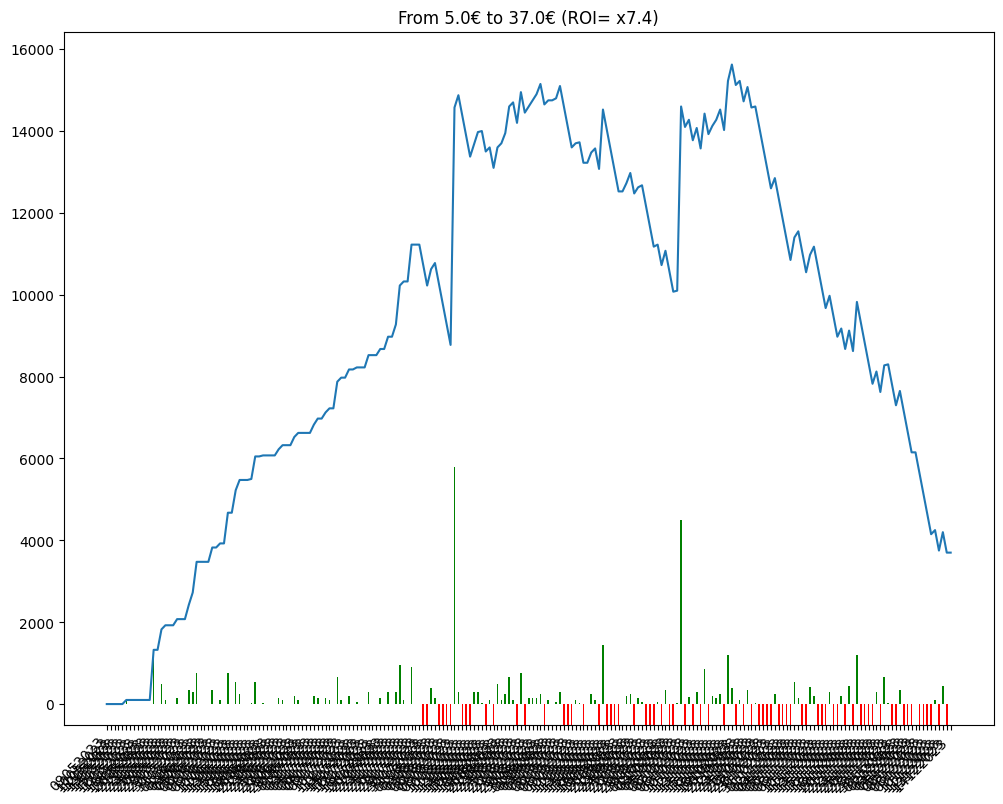
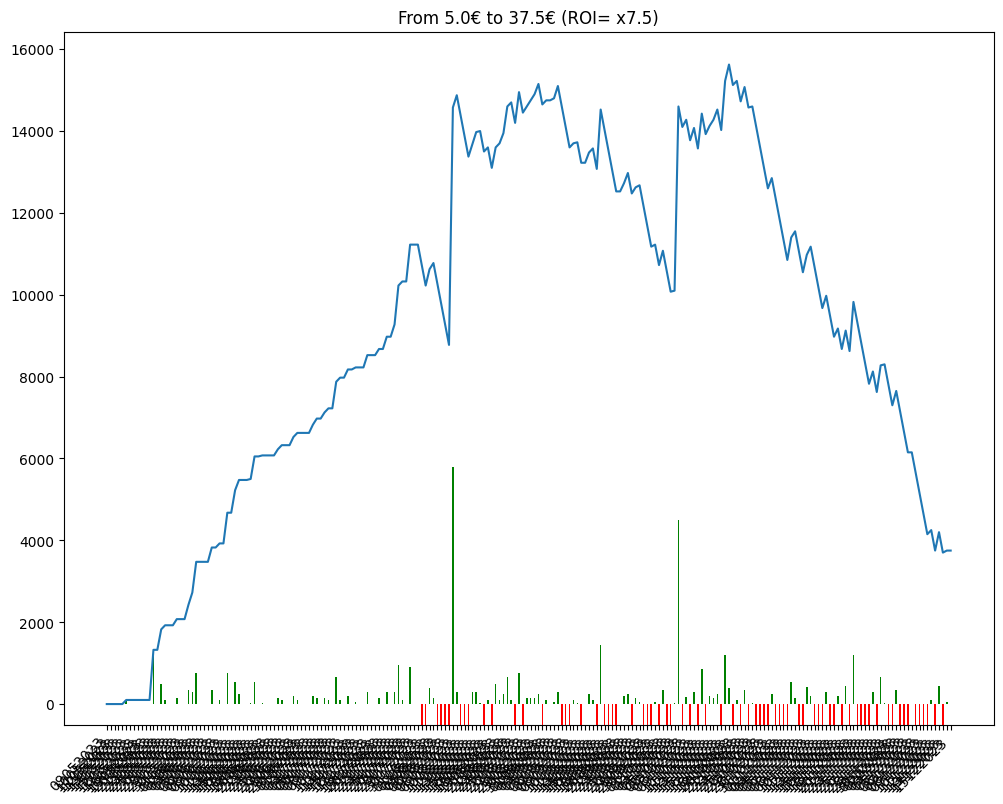
comment from python script

diff --git a/bethistory.html b/bethistory.html
@@ -86,7 +86,8 @@
             En observant la courbe 🤔, on peut avoir une idée visuelle de l'évolution des gains et ainsi évaluer le model utilisé 🧑🏫.
         </p>
         
-        <img src = "/candle.png" alt="candle chart"/><table><tr><td>Chevaux joués</td><td>Gains</td><td>URL Circuits</td></tr><tr><td>2 - PRINCESSE SAPHIR</td><td>0</td><td><a href=https://www.pmu.fr/turf/14122023/r1/c1 target="_blank">https://www.pmu.fr/turf/14122023/r1/c1</a></td></tr>
+        <img src = "/candle.png" alt="candle chart"/><table><tr><td>Chevaux joués</td><td>Gains</td><td>URL Circuits</td></tr><tr><td>8 - WALDEZA</td><td>0</td><td><a href=https://www.pmu.fr/turf/15122023/r4/c1 target="_blank">https://www.pmu.fr/turf/15122023/r4/c1</a></td></tr>
+<tr><td>2 - PRINCESSE SAPHIR</td><td>+50</td><td><a href=https://www.pmu.fr/turf/14122023/r1/c1 target="_blank">https://www.pmu.fr/turf/14122023/r1/c1</a></td></tr>
 <tr><td>3 - SAABIR</td><td>-500</td><td><a href=https://www.pmu.fr/turf/13122023/r3/c6 target="_blank">https://www.pmu.fr/turf/13122023/r3/c6</a></td></tr>
 <tr><td>8 - SOAN</td><td>+450</td><td><a href=https://www.pmu.fr/turf/12122023/r4/c2 target="_blank">https://www.pmu.fr/turf/12122023/r4/c2</a></td></tr>
 <tr><td>3 - ESPRIT DES BOIS</td><td>-500</td><td><a href=https://www.pmu.fr/turf/11122023/r4/c2 target="_blank">https://www.pmu.fr/turf/11122023/r4/c2</a></td></tr>
